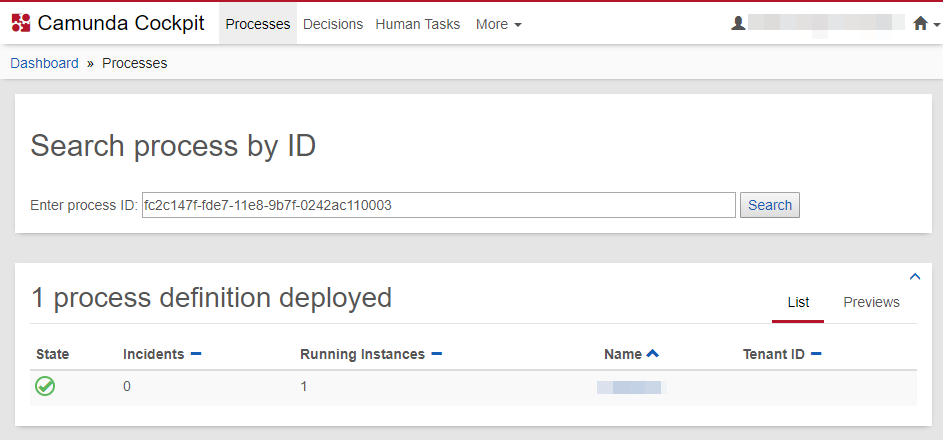
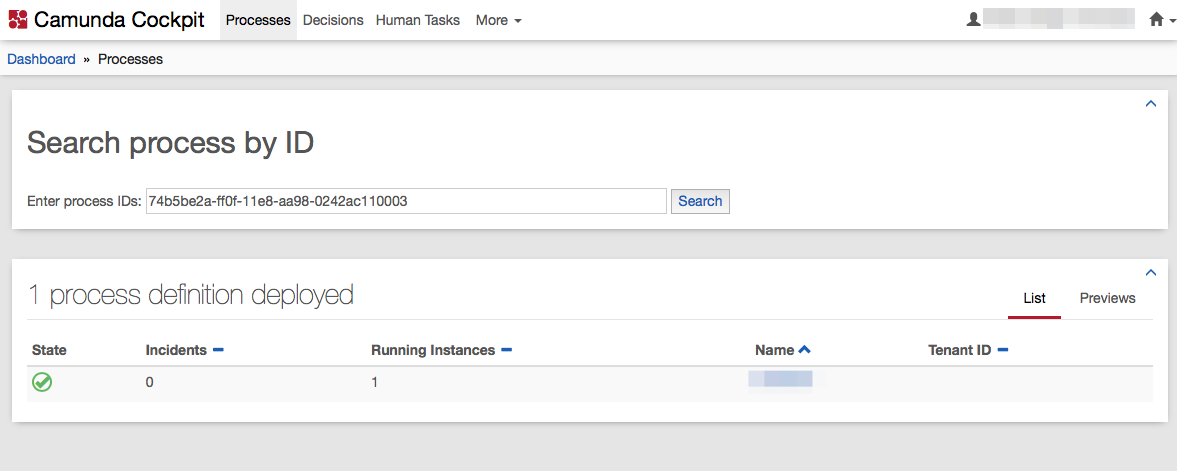
added toggle section

Changed region(s): [[0.0, 0.0, 1.0, 0.975], [0.5536, 0.3841, 0.6458, 0.4432]]

diff --git a/cockpit/js-only-find-process-by-id/searchBPbyID.js b/cockpit/js-only-find-process-by-id/searchBPbyID.js
@@ -1,6 +1,6 @@
 define(['angular'], function(angular) {
 
-  var searchBpViewController = ['$scope', '$timeout', function($scope, $timeout, Uri) {
+  var searchBpViewController = ['$scope', '$timeout', 'localConf', function($scope, $timeout, localConf) {
     $scope.pressEnter = function(event) {
         if (event.keyCode === 13) {
 	   $timeout(function() {
@@ -8,6 +8,16 @@ define(['angular'], function(angular) {
 		}, 0);
            };
         };
+    
+    $scope.activeSection = localConf.get('searchBpByIDActive', true);
+    $scope.activeSection = true;
+
+    $scope.toggleSection = function toggleSection() {
+          $scope.activeSection = !$scope.activeSection;
+          localConf.set('searchBpByIDActive', $scope.activeSection);
+        };
+
+
   }];
 
   var ngModule = angular.module('cockpit.searchBPbyID', []);
@@ -15,11 +25,15 @@ define(['angular'], function(angular) {
   ngModule.config(['ViewsProvider', function(ViewsProvider) {
     ViewsProvider.registerDefaultView('cockpit.processes.dashboard', {
       id: 'cockpit.searchBPbyID',
+      label: 'Search process by ID',
       priority: 9001,
-      template: '<section class="processes-dashboard ng-scope">'
-		+'<div class="inner"><h2>Search process by ID</h2>'
-		+'<br/>Enter process ID: <input ng-keydown="pressEnter($event)" id="processId" ng-model="bpID" type="text" size="80"></input> '
-		+'<a id="searchBpGo" href="/camunda/app/cockpit/default/#/process-instance/{{bpID}}"><button>Search</button></a>'
+      template: '<section class="processes-dashboard" ng-class="{\'section-collapsed\': !activeSection}">'
+		+'<div class="inner">'
+              	+'<button tooltip="Toggle this section" class="section-toggle btn btn-link btn-sm" ng-click="toggleSection()">'
+                +'<span class="glyphicon glyphicon-menu-up" ng-class="{\'glyphicon-menu-down\': !activeSection, \'glyphicon-menu-up\': activeSection}"></span></button>'
+		+'<h2>Search process by ID</h2>'
+		+'<div ng-if="activeSection"><br/>Enter process IDs: <input ng-keydown="pressEnter($event)" id="processId" ng-model="bpID" type="text" size="80"></input> '
+		+'<a id="searchBpGo" href="#/process-instance/{{bpID}}"><button>Search</button></a></div>'
 		+'</div></section>',
       controller: searchBpViewController
     });
@@ -27,3 +41,4 @@ define(['angular'], function(angular) {
 
   return ngModule;
 });
+
